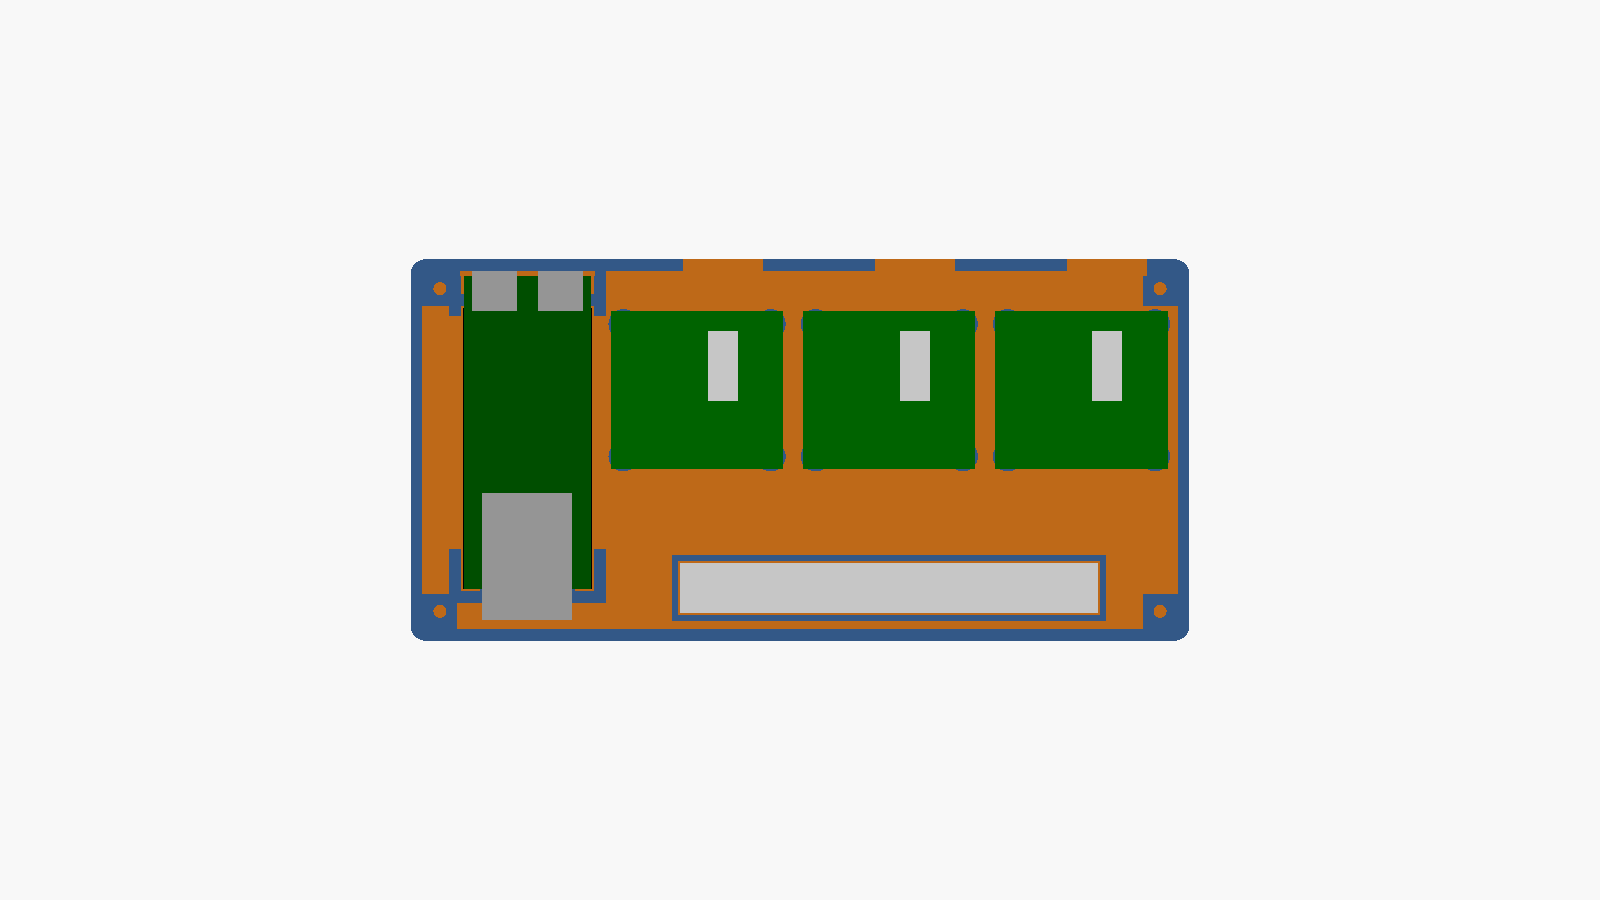
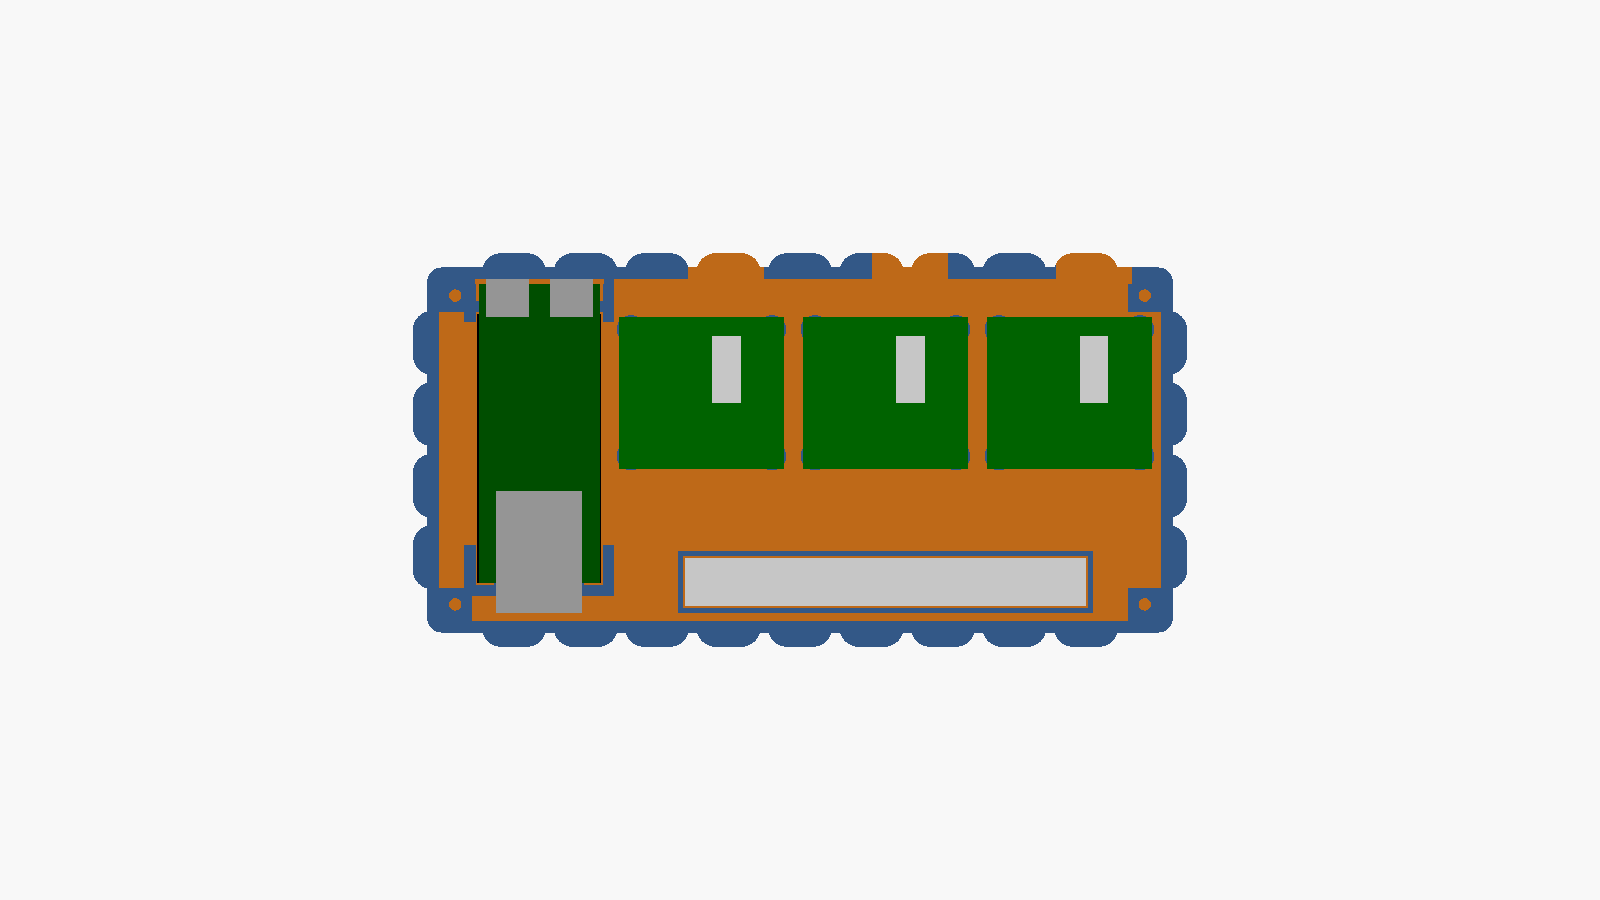
OMM enclosure: ribbed outside like the XY table
Stadium ribs, radius 4, 5.4 flat, 3 proud, 15 apart, measured in
OMM_v2p2.3mf, on the walls and the lid's edge. The back wall's cuts go
through them.

Changed region(s): [[0.25, 0.28, 0.75, 0.7156]]

diff --git a/projects/OMM_open_microscope_motorization/enclosure/README.md b/projects/OMM_open_microscope_motorization/enclosure/README.md
@@ -18,7 +18,9 @@ Box for the electronics of the open microscope motorization: an ESP32-S3-DevKitC
 
 ## Layout
 
-Outer 156.45 × 76.6 × 36 mm. Front wall y = 0, cables leave through the back wall.
+Outer 156.45 × 76.6 × 36 mm over the walls, 162.45 × 82.6 over the ribs. Front wall y = 0, cables leave through the back wall.
+
+The walls and the lid's edge carry the ribs of the XY table (`current_setup/xy_table_omm/`), measured in `OMM_v2p2.3mf`: stadiums of radius 4 with a 5.4 flat, 3 proud of the wall, 15 apart, centred on each side. They match the table and give the first layer more edge.
 
 | Part | Where | Held by |
 |---|---|---|
